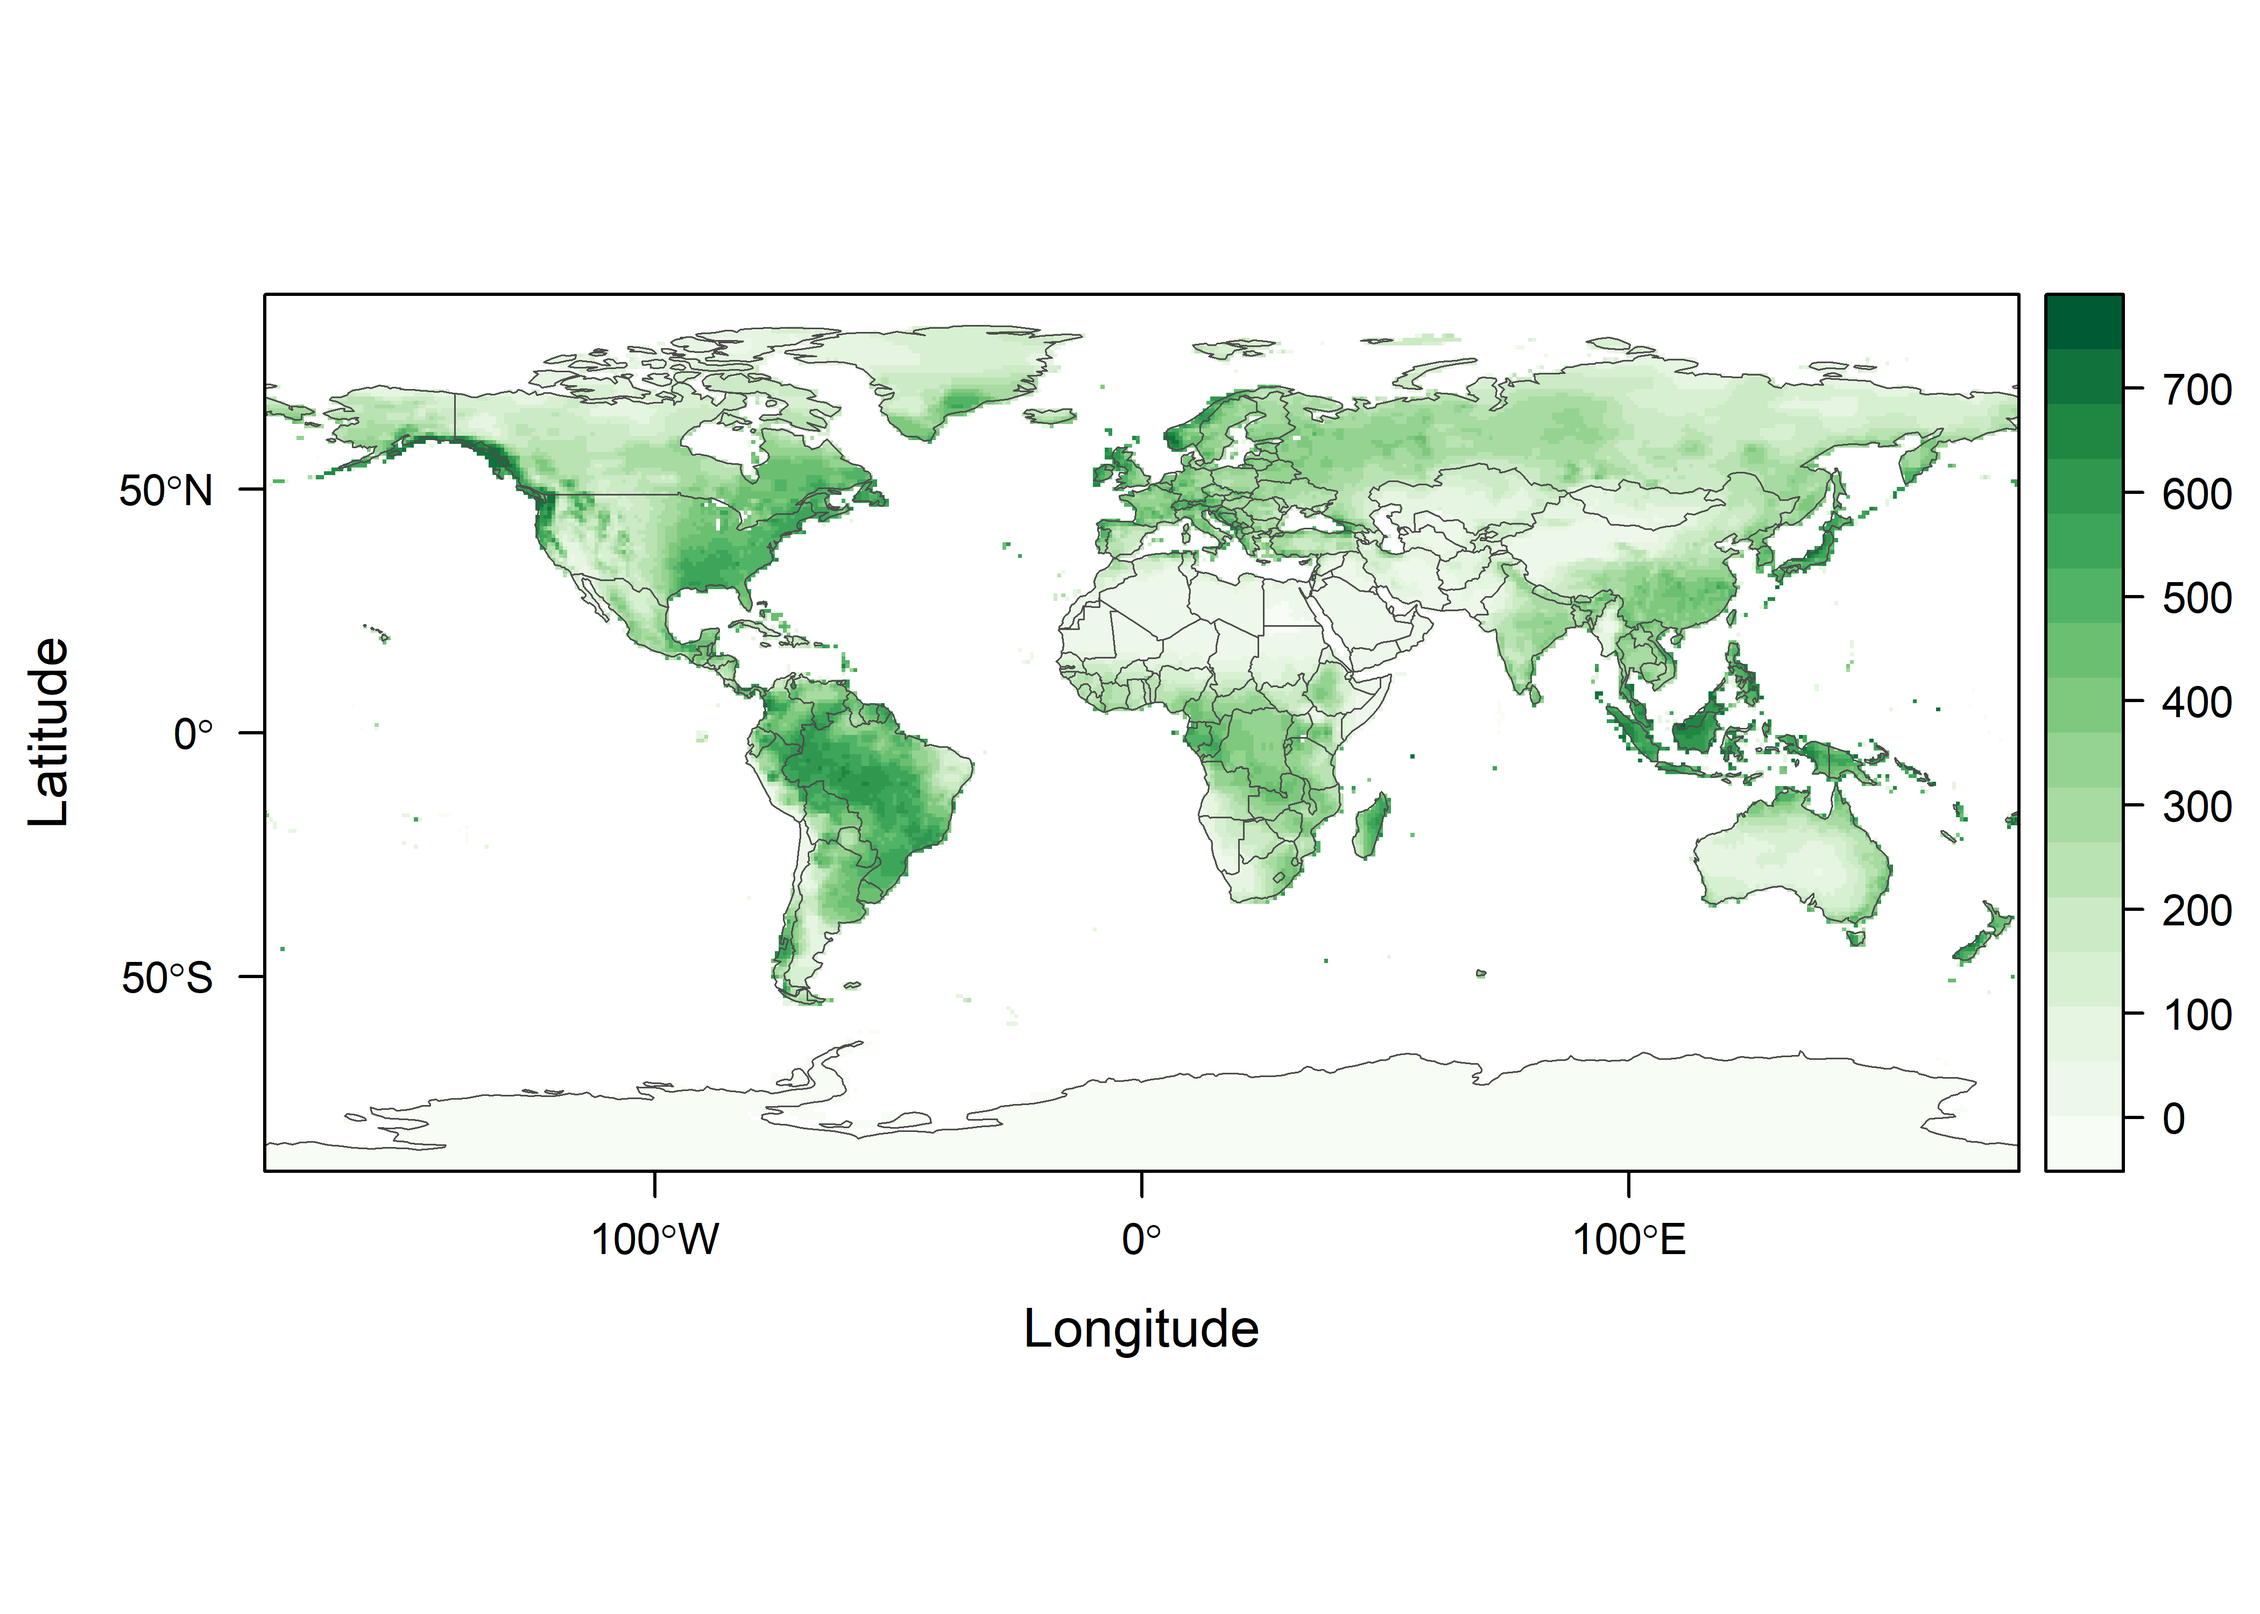
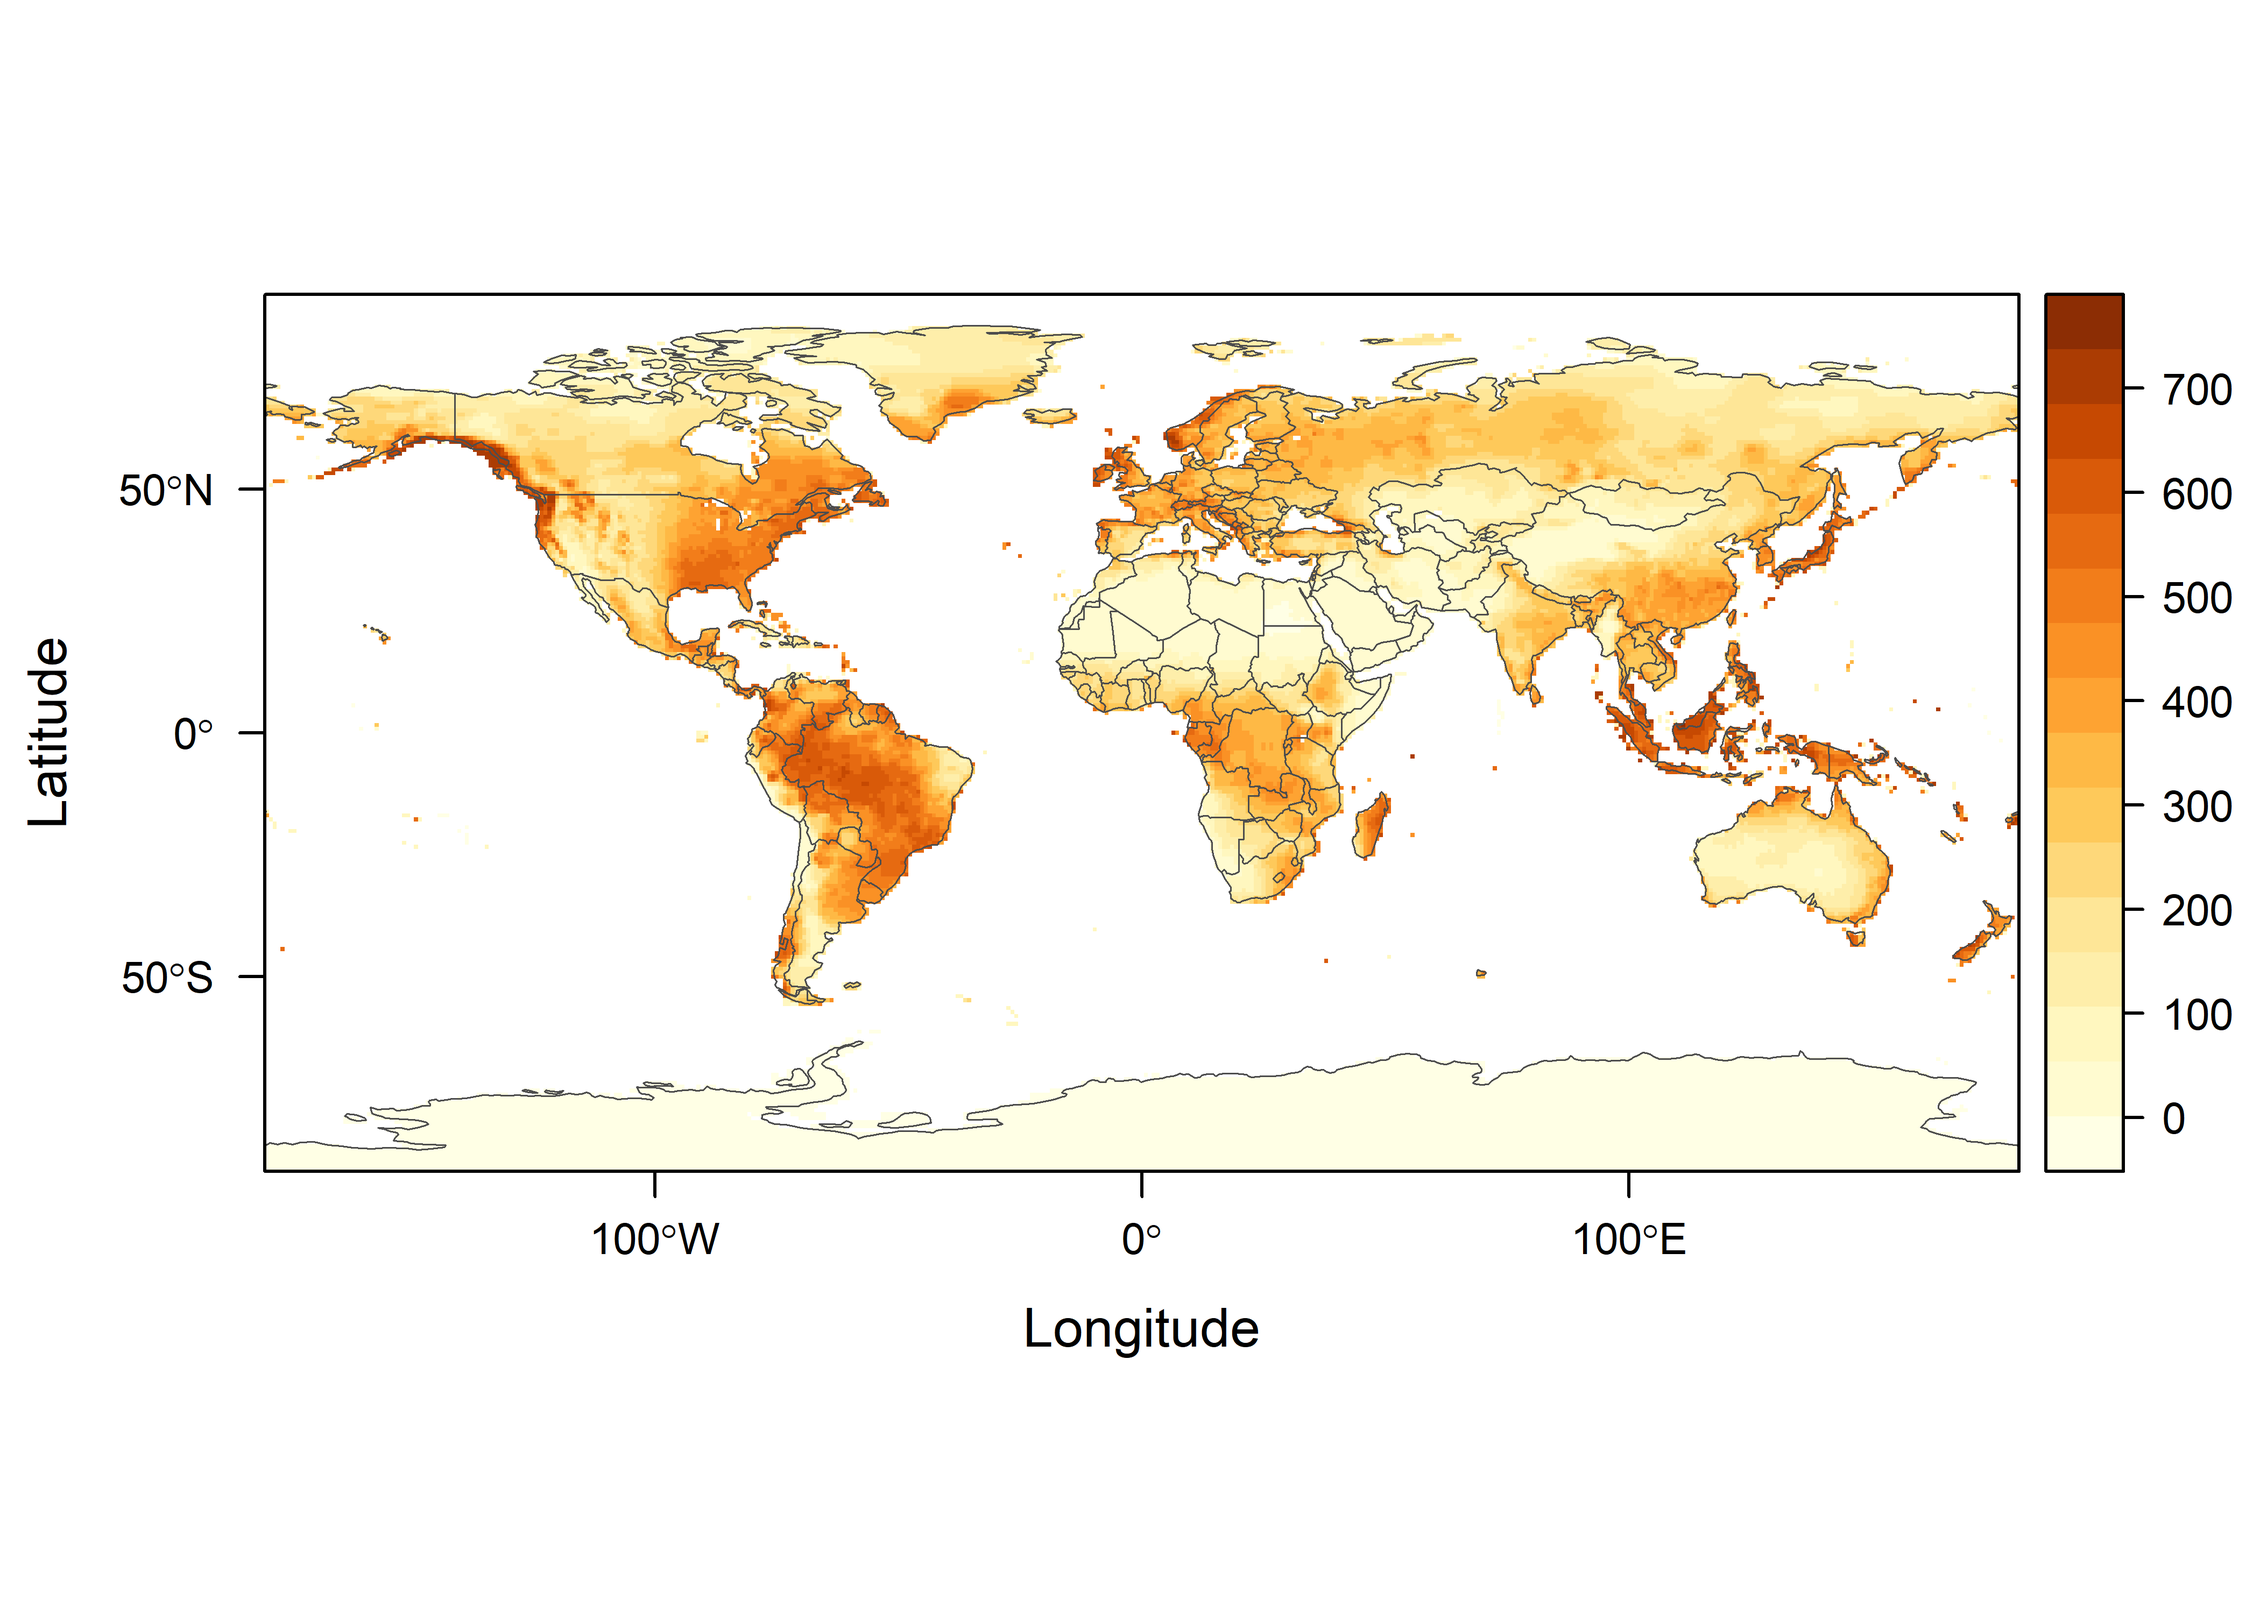
Map updates

Changed region(s): [[0.4679, 0.186, 0.9357, 0.713], [0.1248, 0.186, 0.4679, 0.62]]

diff --git a/docs/plot_alpha_RMarkdown_Site.html b/docs/plot_alpha_RMarkdown_Site.html
@@ -349,7 +349,7 @@ $(document).ready(function () {
         <span class="icon-bar"></span>
         <span class="icon-bar"></span>
       </button>
-      <a class="navbar-brand" href="index.html">GEOG 4/590:  R for Earth-System Science</a>
+      <a class="navbar-brand" href="index.html">GEOG 490:  R for Earth-System Science</a>
     </div>
     <div id="navbar" class="navbar-collapse collapse">
       <ul class="nav navbar-nav">
@@ -364,7 +364,7 @@ $(document).ready(function () {
       <a href="intro.html">Introduction</a>
     </li>
     <li>
-      <a href="plot_alpha_RMarkdown_Site.html">Raster mapping example</a>
+      <a href="plot_alpha_RMarkdown_Site.html">Raster mapping</a>
     </li>
   </ul>
 </li>
@@ -399,7 +399,7 @@ $(document).ready(function () {
 <li><a href="#read-soil"><span class="toc-section-number">2.2</span> Read Soil</a></li>
 </ul></li>
 <li><a href="#plot-the-data"><span class="toc-section-number">3</span> Plot the data</a></li>
-<li><a href="#plot-the-next-12-months"><span class="toc-section-number">4</span> Plot the next 12 months</a></li>
+<li><a href="#plot-the-long-term-mean-for-each-month"><span class="toc-section-number">4</span> Plot the long term mean for each month</a></li>
 </ul>
 </div>
 
@@ -433,7 +433,7 @@ $(document).ready(function () {
 <h2><span class="header-section-number">2.1</span> Shapefile</h2>
 <div id="read-a-shapefile" class="section level3">
 <h3><span class="header-section-number">2.1.1</span> Read a Shapefile</h3>
-<p>Read a shapefile</p>
+<p>Read world countries shapefile</p>
 <div class="sourceCode" id="cb15"><pre class="sourceCode r"><code class="sourceCode r"><a class="sourceLine" id="cb15-1" title="1">shp_path &lt;-<span class="st"> &quot;C:</span><span class="ch">\\</span><span class="st">Users</span><span class="ch">\\</span><span class="st">jonjo</span><span class="ch">\\</span><span class="st">Documents</span><span class="ch">\\</span><span class="st">projects</span><span class="ch">\\</span><span class="st">geog490</span><span class="ch">\\</span><span class="st">data</span><span class="ch">\\</span><span class="st">&quot;</span></a>
 <a class="sourceLine" id="cb15-2" title="2">shp_name &lt;-<span class="st"> &quot;ne_110m_admin_0_countries.shp&quot;</span></a>
 <a class="sourceLine" id="cb15-3" title="3">shp_file &lt;-<span class="st"> </span><span class="kw">paste</span>(shp_path,shp_name,<span class="dt">sep=</span><span class="st">&quot;&quot;</span>)</a>
@@ -450,14 +450,14 @@ $(document).ready(function () {
 </div>
 <div id="read-soil" class="section level2">
 <h2><span class="header-section-number">2.2</span> Read Soil</h2>
-<p>Now read in soil</p>
+<p>Now read in soil moisture data with ncdf4 package</p>
 <div class="sourceCode" id="cb17"><pre class="sourceCode r"><code class="sourceCode r"><a class="sourceLine" id="cb17-1" title="1">nc_path &lt;-<span class="st"> &quot;C:</span><span class="ch">\\</span><span class="st">Users</span><span class="ch">\\</span><span class="st">jonjo</span><span class="ch">\\</span><span class="st">Documents</span><span class="ch">\\</span><span class="st">geog490</span><span class="ch">\\</span><span class="st">data</span><span class="ch">\\</span><span class="st">&quot;</span></a>
 <a class="sourceLine" id="cb17-2" title="2">nc_name &lt;-<span class="st"> &quot;soilw.mon.ltm.v2.nc&quot;</span></a>
 <a class="sourceLine" id="cb17-3" title="3">nc_file &lt;-<span class="st"> </span><span class="kw">paste</span>(nc_path,nc_name,<span class="dt">sep=</span><span class="st">&quot;&quot;</span>)</a>
 <a class="sourceLine" id="cb17-4" title="4"></a>
 <a class="sourceLine" id="cb17-5" title="5">soil_raster &lt;-<span class="st"> </span><span class="kw">raster</span>(nc_file,<span class="dt">varname=</span><span class="st">&quot;soilw&quot;</span>)</a>
 <a class="sourceLine" id="cb17-6" title="6"></a>
-<a class="sourceLine" id="cb17-7" title="7">soil &lt;-<span class="st"> </span><span class="kw">rotate</span>(soil_raster)</a>
+<a class="sourceLine" id="cb17-7" title="7">soil &lt;-<span class="st"> </span><span class="kw">rotate</span>(soil_raster) <span class="co"># Convert the coordinates of raster to -180-180 degrees</span></a>
 <a class="sourceLine" id="cb17-8" title="8">soil</a></code></pre></div>
 <pre><code>## class       : RasterLayer 
 ## dimensions  : 360, 720, 259200  (nrow, ncol, ncell)
@@ -474,23 +474,23 @@ $(document).ready(function () {
 <h1><span class="header-section-number">3</span> Plot the data</h1>
 <p>Finally, plot alpha using the <code>levelplot()</code> function from <code>rasterVis</code>:</p>
 <div class="sourceCode" id="cb19"><pre class="sourceCode r"><code class="sourceCode r"><a class="sourceLine" id="cb19-1" title="1"><span class="co"># rasterVis plot</span></a>
-<a class="sourceLine" id="cb19-2" title="2">maptheme &lt;-<span class="st"> </span><span class="kw">rasterTheme</span>(<span class="dt">region=</span><span class="kw">brewer.pal</span>(<span class="dv">8</span>,<span class="st">&quot;Greens&quot;</span>))</a>
+<a class="sourceLine" id="cb19-2" title="2">maptheme &lt;-<span class="st"> </span><span class="kw">rasterTheme</span>(<span class="dt">region=</span><span class="kw">brewer.pal</span>(<span class="dv">8</span>,<span class="st">&quot;YlOrBr&quot;</span>))</a>
 <a class="sourceLine" id="cb19-3" title="3">plt &lt;-<span class="st"> </span><span class="kw">levelplot</span>(soil, <span class="dt">margin=</span>F, <span class="dt">par.settings=</span>maptheme)</a>
 <a class="sourceLine" id="cb19-4" title="4">plt <span class="op">+</span><span class="st"> </span>latticeExtra<span class="op">::</span><span class="kw">layer</span>(<span class="kw">sp.lines</span>(world_outline, <span class="dt">col=</span><span class="st">&quot;gray30&quot;</span>, <span class="dt">lwd=</span><span class="fl">0.5</span>))</a></code></pre></div>
 <p><img src="plot_alpha_RMarkdown_Site_files/figure-html/plot_data-1.png" width="2100" /></p>
 </div>
-<div id="plot-the-next-12-months" class="section level1">
-<h1><span class="header-section-number">4</span> Plot the next 12 months</h1>
-<div class="sourceCode" id="cb20"><pre class="sourceCode r"><code class="sourceCode r"><a class="sourceLine" id="cb20-1" title="1">NC_soil_ltm &lt;-<span class="st"> </span><span class="kw">stack</span>(nc_file,<span class="dt">varname=</span><span class="st">&quot;soilw&quot;</span>)</a>
-<a class="sourceLine" id="cb20-2" title="2">NC_soil_ltm &lt;-<span class="st"> </span><span class="kw">rotate</span>(NC_soil_ltm)</a>
+<div id="plot-the-long-term-mean-for-each-month" class="section level1">
+<h1><span class="header-section-number">4</span> Plot the long term mean for each month</h1>
+<div class="sourceCode" id="cb20"><pre class="sourceCode r"><code class="sourceCode r"><a class="sourceLine" id="cb20-1" title="1">NC_soil_ltm &lt;-<span class="st"> </span><span class="kw">stack</span>(nc_file,<span class="dt">varname=</span><span class="st">&quot;soilw&quot;</span>) <span class="co"># Raster stck object</span></a>
+<a class="sourceLine" id="cb20-2" title="2">NC_soil_ltm &lt;-<span class="st"> </span><span class="kw">rotate</span>(NC_soil_ltm) <span class="co"># Rotate the raster object coordinates</span></a>
 <a class="sourceLine" id="cb20-3" title="3"><span class="kw">names</span>(NC_soil_ltm) &lt;-<span class="st"> </span><span class="kw">c</span>(<span class="st">&quot;Dec&quot;</span>,<span class="st">&quot;Jan&quot;</span>,<span class="st">&quot;Feb&quot;</span>,<span class="st">&quot;March&quot;</span>,<span class="st">&quot;April&quot;</span>,<span class="st">&quot;May&quot;</span>,<span class="st">&quot;June&quot;</span>,<span class="st">&quot;July&quot;</span>,<span class="st">&quot;August&quot;</span>,<span class="st">&quot;September&quot;</span>,<span class="st">&quot;October&quot;</span>,<span class="st">&quot;November&quot;</span>)</a>
-<a class="sourceLine" id="cb20-4" title="4">pngfile &lt;-<span class="st"> &quot;NC_soil_ltm.png&quot;</span></a>
+<a class="sourceLine" id="cb20-4" title="4"><span class="co">#pngfile &lt;- &quot;NC_soil_ltm.png&quot;</span></a>
 <a class="sourceLine" id="cb20-5" title="5"><span class="co">#png(pngfile, width=729, height=729) # open the file</span></a>
-<a class="sourceLine" id="cb20-6" title="6">cutpts &lt;-<span class="st"> </span><span class="kw">c</span>(<span class="dv">0</span>,<span class="dv">100</span>,<span class="dv">200</span>,<span class="dv">300</span>,<span class="dv">400</span>,<span class="dv">500</span>,<span class="dv">600</span>,<span class="dv">700</span>)</a>
+<a class="sourceLine" id="cb20-6" title="6">cutpts &lt;-<span class="st"> </span><span class="kw">c</span>(<span class="dv">0</span>,<span class="dv">100</span>,<span class="dv">200</span>,<span class="dv">300</span>,<span class="dv">400</span>,<span class="dv">500</span>,<span class="dv">600</span>,<span class="dv">700</span>) <span class="co"># Set the cut points at the range of values of the dataset</span></a>
 <a class="sourceLine" id="cb20-7" title="7">cutpts</a></code></pre></div>
 <pre><code>## [1]   0 100 200 300 400 500 600 700</code></pre>
-<div class="sourceCode" id="cb22"><pre class="sourceCode r"><code class="sourceCode r"><a class="sourceLine" id="cb22-1" title="1">plt &lt;-<span class="st"> </span><span class="kw">levelplot</span>(NC_soil_ltm , <span class="dt">at=</span>cutpts, <span class="dt">cuts=</span><span class="dv">11</span>, <span class="dt">pretty=</span>T, </a>
-<a class="sourceLine" id="cb22-2" title="2">                 <span class="dt">col.regions=</span>(<span class="kw">rev</span>(<span class="kw">brewer.pal</span>(<span class="dv">10</span>,<span class="st">&quot;BrBG&quot;</span>))))</a>
+<div class="sourceCode" id="cb22"><pre class="sourceCode r"><code class="sourceCode r"><a class="sourceLine" id="cb22-1" title="1">plt &lt;-<span class="st"> </span><span class="kw">levelplot</span>(NC_soil_ltm , <span class="dt">at=</span>cutpts, <span class="dt">cuts=</span><span class="dv">8</span>, <span class="dt">pretty=</span>T, </a>
+<a class="sourceLine" id="cb22-2" title="2">                 <span class="dt">col.regions=</span>(<span class="kw">brewer.pal</span>(<span class="dv">8</span>,<span class="st">&quot;YlOrBr&quot;</span>)))</a>
 <a class="sourceLine" id="cb22-3" title="3">plt <span class="op">+</span><span class="st"> </span>latticeExtra<span class="op">::</span><span class="kw">layer</span>(<span class="kw">sp.lines</span>(world_outline, <span class="dt">col=</span><span class="st">&quot;black&quot;</span>, <span class="dt">lwd=</span><span class="fl">0.5</span>))</a></code></pre></div>
 <p><img src="plot_alpha_RMarkdown_Site_files/figure-html/plot_months-1.png" width="2100" /></p>
 </div>
